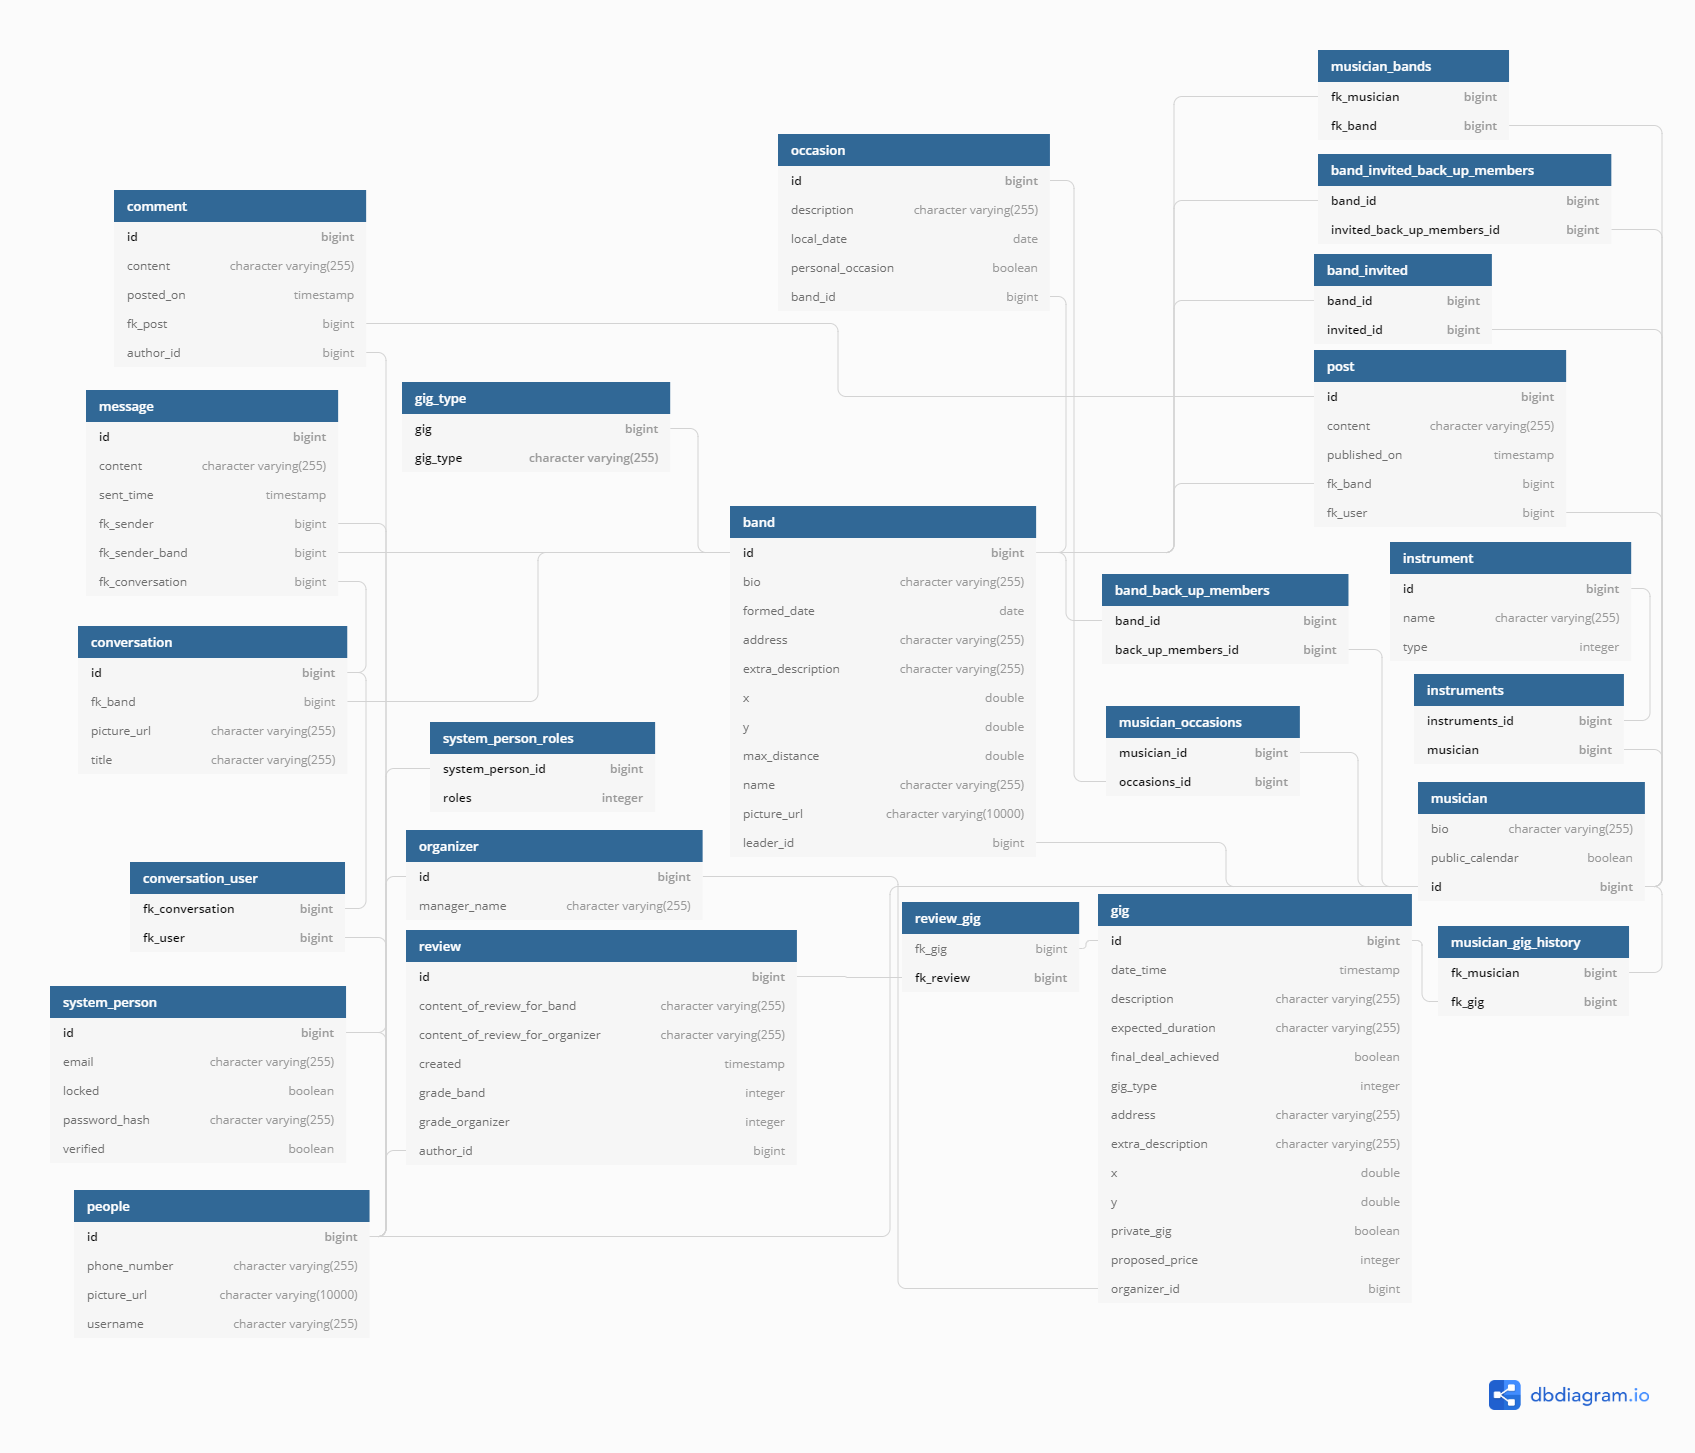
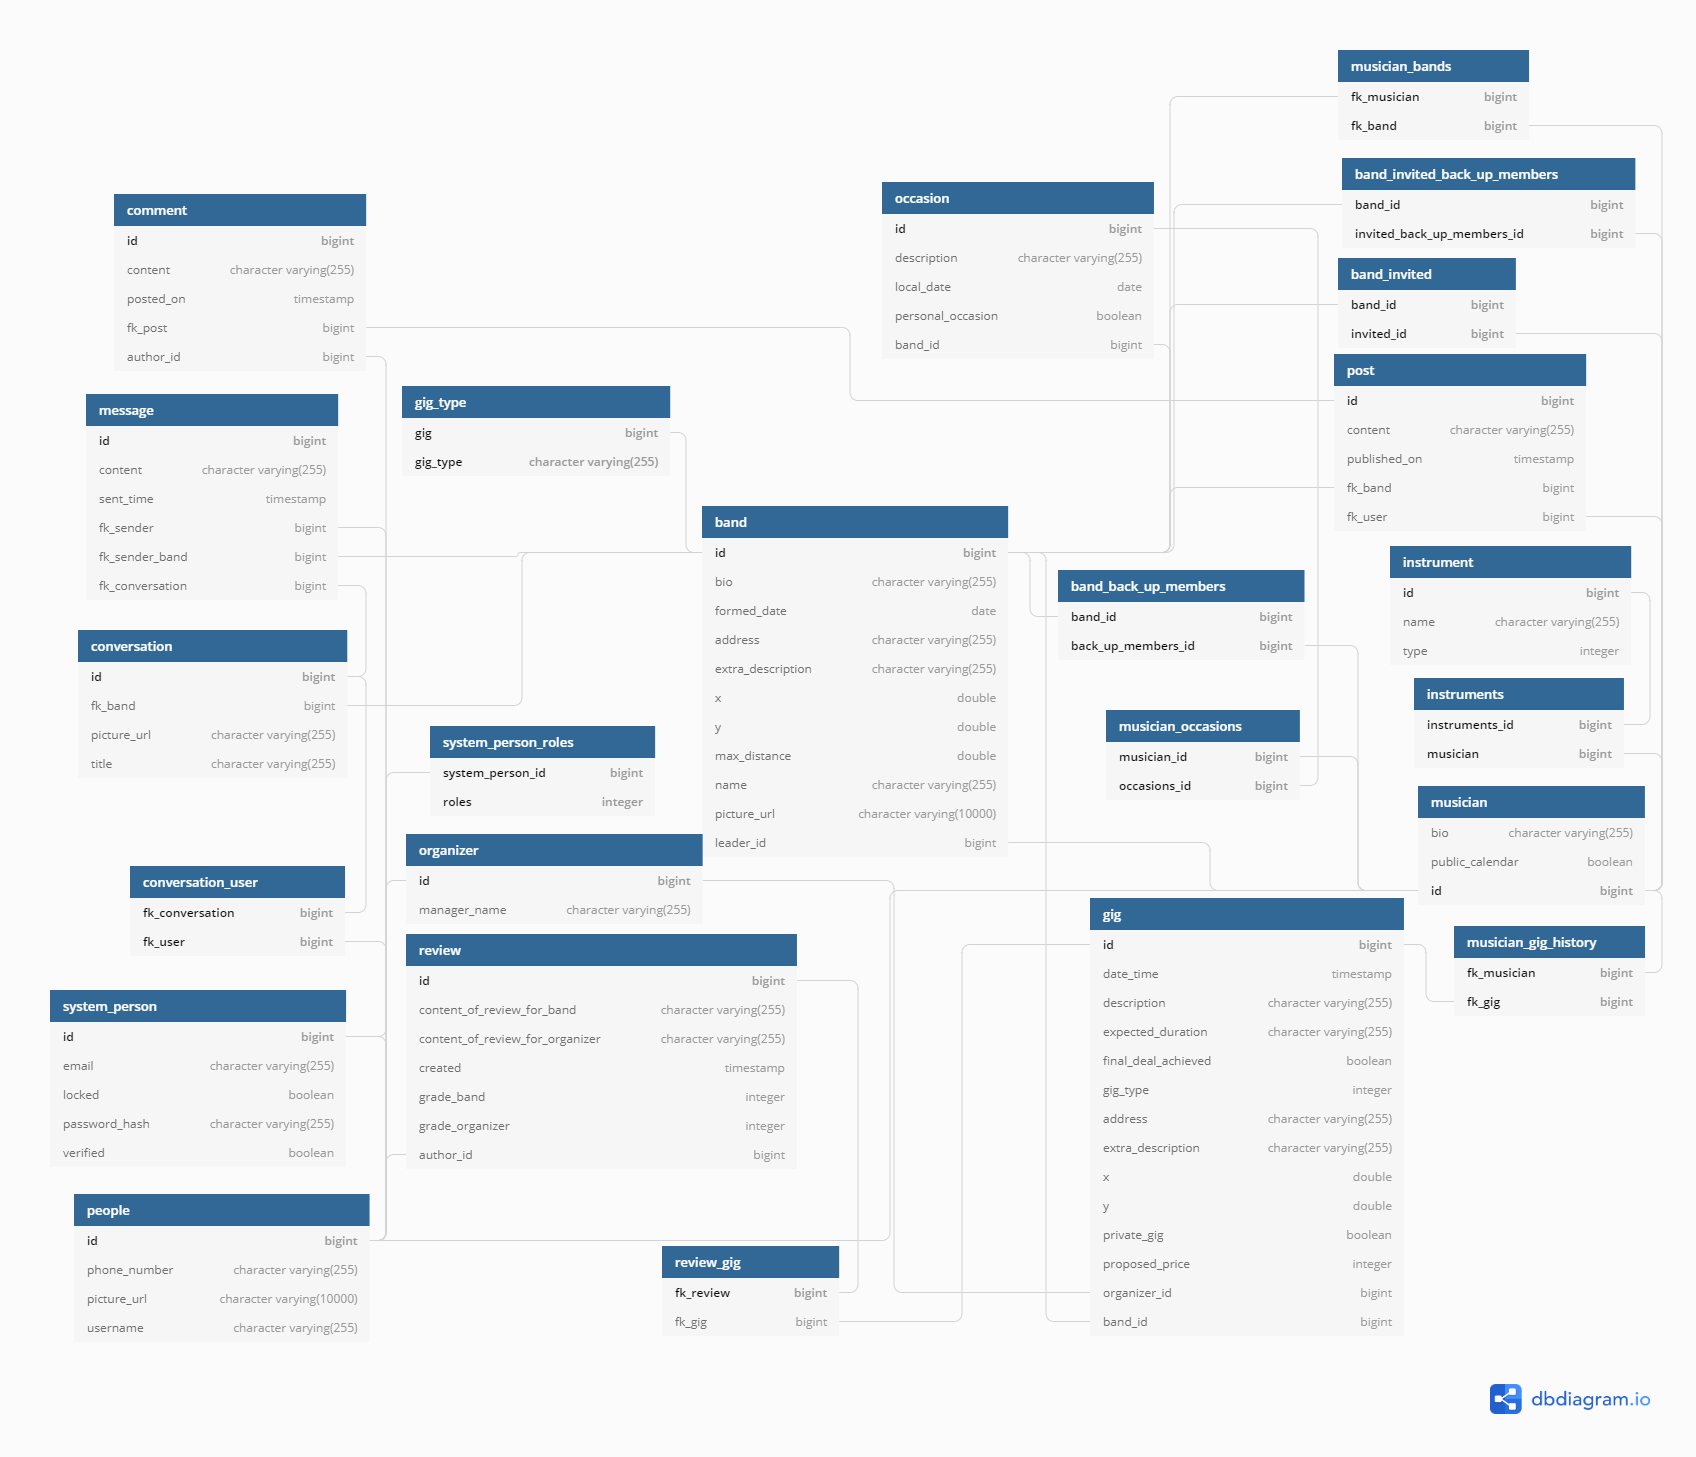
added gig history

diff --git a/dokumentacija/Arhitektura.tex b/dokumentacija/Arhitektura.tex
@@ -454,7 +454,8 @@
 		y & DOUBLE & y koordinata lokacije \\ \hline
 		private\_gig & BOOLEAN & nastupa privatan ili ne \\ \hline
 		proposed\_price & INT & preporučena cijena ulaznice \\ \hline
-		\textit{organizer\_id}	& BIGINT &  jedinstveni identifikator organizatora	\\ \hline 		
+		\textit{organizer\_id}	& BIGINT &  jedinstveni identifikator organizatora	\\ \hline 	
+		\textit{bend\_id}	& BIGINT &  jedinstveni identifikator benda	\\ \hline 	
 		
 	\end{longtabu}
 	
